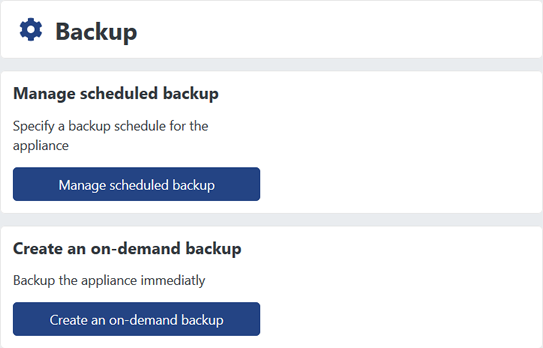
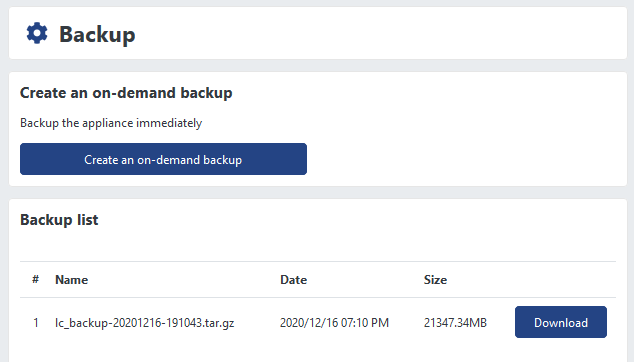
Update docs 23 Dec

diff --git a/pages/help/manage-ledger.md b/pages/help/manage-ledger.md
@@ -50,17 +50,17 @@ Ledger management functions are accessed from the tabs along the top of the page
 
 After a ledger is created, you can change its name, enable/disable it, generate new API keys or delete keys no longer in use. To access management tools, select the appropriate tab at the top of the page.
 
-| Function                                                    | Tab               |                                                          |
-| ----------------------------------------------------------- | ----------------- | -------------------------------------------------------- |
-| [Managing API keys](help/manage-ledger#managing-API-keys)   | *API Keys*        | View existing API keys for the selected ledger.          |
-| [Querying a ledger](help/manage-ledger#querying-a-ledger)   | *Query Ledger*    | Query and transactions in the selected ledger.           |
-| [Audit report](help/manage-ledger#audit-report)             | *Audit Report*    | Create an audit report of events for the current ledger. |
-| [Renaming a ledger](help/manage-ledger#renaming-a-ledger)   | *Ledger Settings* | Change the ledger name as it appears in the UI.          |
-| [Exporting a ledger](help/manage-ledger#exporting-a-ledger) | *Export*          | Export ledger data to a JSON file.                       |
+| Function                                                  | Tab               |                                                          |
+| --------------------------------------------------------- | ----------------- | -------------------------------------------------------- |
+| [Managing API keys](help/manage-ledger#managing-API-keys) | *API Keys*        | View existing API keys for the selected ledger.          |
+| [Querying a ledger](help/manage-ledger#querying-a-ledger) | *Query Ledger*    | Query and transactions in the selected ledger.           |
+| [Audit report](help/manage-ledger#audit-report)           | *Audit Report*    | Create an audit report of events for the current ledger. |
+| [Renaming a ledger](help/manage-ledger#renaming-a-ledger) | *Ledger Settings* | Change the ledger name as it appears in the UI.          |
+| [Exporting a ledger](help/manage-ledger#export-ledger)    | *Export*          | Export ledger data to a JSON file.                       |
 
 #### Managing API keys
 
-The *API Keys* tab list every API configured for the selected ledger --  its name, type (SDK, CI/CD, Postgres), and most recent usage date. You can have multiple API keys for the same ledger. That way you can assign a unique key to each application when you have more than one accessing the same ledger. 
+The *API Keys* tab lists every API configured for the selected ledger --  its name, type (SDK, CI/CD, Postgres), and most recent usage date. You can have multiple API keys for the same ledger. That way you can assign a unique key to each application when you have more than one accessing the same ledger. 
 
 By clicking the **Actions** icon you can add new keys, get the value for existing keys, delete a key or show the Signer ID (for CI/CD keys).
 

diff --git a/pages/help/introduction.md b/pages/help/introduction.md
@@ -3,15 +3,15 @@ title: Understanding the System
 ---
 
 -------
-If you're new to the CodeNotary Ledger Compliance platform, taking a moment to review the topics on this page will make it easier to understand other help content.  align="left"
+If you're new to the CodeNotary Ledger Compliance platform, taking a moment to review the topics on this page will make it easier to understand other help content.  
 
 ###### _Topics on this page..._
 
-- [What is CodeNotary Ledger Compliance?](help/introducton#what-is-codenotary-ledger-compliance?)
+- [What is CodeNotary Ledger Compliance?](help/introduction#what-is-codenotary-ledger-compliance?)
 
-- [What are some typical use cases?](help/introducton#what-are-some-typical-use-cases?)
+- [What are some typical use cases?](help/introduction#what-are-some-typical-use-cases?)
 
-- [Major components](help/introducton#major-components)
+- [Major components](help/introduction#major-components)
 
 ## What is CodeNotary Ledger Compliance? 
 
@@ -38,9 +38,9 @@ The CNLC platform provides additional security for key transactions in any busin
 
 Whether deployed on-premises or in the cloud, CodeNotary Ledger Compliance provides you a browser-based dashboard that can be used to manage the software:
 
-* [Core platform](help/introducton#core-platform)
-* [User Interface](help/introducton#user-interface)
-* [SDK](help/introducton#sdk)
+* [Core platform](help/introduction#core-platform)
+* [User Interface](help/introduction#user-interface)
+* [SDK](help/introduction#sdk)
 
 ### Core platform
 
@@ -56,7 +56,7 @@ Ledger Compliance uses an append-only data structure to store inserts and update
 
 ### User Interface
 
-The user interface is a browser-base GUI. It's where you create and manage ledgers, create API keys, view statistics, run audit reports, and access various administrative functions.
+The user interface is a browser-based GUI. It's where you create and manage ledgers, create API keys, view statistics, run audit reports, and access various administrative functions.
 <v-img src="/alt_ledger_plain.png" alt="" align="left"> </v-img>
 
 ![](assets\images\alt_ledger_plain.png)

diff --git a/pages/help/manage.md b/pages/help/manage.md
@@ -60,9 +60,9 @@ Click the **Update license** button when you're done.
 
 #### Backup
 
-To set automatic ledger backups at a specified interval, click the **Manage scheduled backup** button.
+The Backup tab lists all previous backups, lets you download them, or create a new backup. 
 
-To create a backup now, click the **Create an on-demand backup** button.
+To create a backup now, click the **Create an on-demand backup** button. Click Download next to any
 
 <v-img src="/alt_bakup_dlog.png" alt="" align="left"></v-img>
 
@@ -70,13 +70,6 @@ To create a backup now, click the **Create an on-demand backup** button.
 ![](assets\images\alt_bakup_dlog.png)
 
 
-
-After clicking Manage scheduled backup, the form below opens:
-
-Set the backup interval, and enter your password to validate the change, then click the **Apply backup policy** button.
-
-<v-img src="/alt_bakupsched_dlog.png" alt="" align="left"></v-img>
-![](assets\images\alt_bakupsched_dlog.png)
 
 #### Maintenance
 
@@ -89,7 +82,7 @@ If maintenance mode is currently off, the only other option is to turn it on (in
 <v-img src="/alt_maint_dlog.png" alt="" align="left"></v-img>
 ![](assets\images\alt_maint_dlog.png)
 
-#### Appliance  Information
+#### Appliance Information
 
 This tab displays current system status. 
 

diff --git a/pages/help/overall-status.md b/pages/help/overall-status.md
@@ -15,7 +15,11 @@ _Topics on this page..._
 
 ## Home page indicators
 
+![](assets\images\alt_hp_full_dash.png)
+
 <v-img src="/alt_hp_full_dash.png" alt="dashboard" align="right"></v-img>
+
+
 
 1. **Tampering Check**  
 
@@ -51,6 +55,7 @@ _Topics on this page..._
 4. **+ Add ledger**  Quick link to create a new Ledger.
    
    <v-img src="/alt_Add_ledger_btn_sm.png" alt="" align="left"> </v-img>
+   
 
 
 5. **Writes over time**  Indicates the total number of entries written to any ledger in the last 6 hours.
@@ -58,6 +63,8 @@ _Topics on this page..._
    <v-img src="/alt_wotb.png" alt="" align="left"> </v-img>
 
    ![](assets\images\alt_wotb.png)
+
+   
 
 6. **Disk usage**  Displays a bar graph of the free and used storage space for both system and ledger data. You can mouse-over the graphic for details.
 

diff --git a/pages/help/index.md b/pages/help/index.md
@@ -38,9 +38,8 @@ The procedures for both configuration and use (through the SDK) are identical wh
 
 #### Ledger Transactions
 
-- [Using the SDK](/help/use-ledger)
-_Writing ledger entries, querying a ledger from your applications._
-  
+- [Using the SDK](/help/use-ledger)  _Writing ledger entries, querying a ledger from your applications._
+
 - [Query Ledger data](/help/query-ledger)
   _Accessing existing ledger entries._
 
@@ -64,5 +63,7 @@ For additional assistance with any topic, please don't hesitate to contact us by
 Copyright © 2020 CodeNotary, Inc. All rights reserved. 
 
 <v-img src="/alt_logo.png" alt="" align="left"> </v-img>
+
+![](C:\Users\David\Downloads\Metatrope\clients\ntry\assets\images\alt_logo.png)
 
 

diff --git a/pages/help/user-management.md b/pages/help/user-management.md
@@ -23,11 +23,9 @@ To add a user to the system, you'll need their email address, desired user name,
 
 Note that some limitations to user administration are imposed by your assign role.
 
-System Admin - Full read-write access to all functions in the UI.
-
-Admin  - Limited read-write access to all functions in the UI.
-
-Ledger manager  - Read-write access to user functions in the UI, but no access to admin functions.
+- System admin - Full read-write access to all functions in the UI.
+- Ledger administrator - Read-write access to user functions in the UI, but no access to admin functions.
+- Auditor - Read-only permissions on ledgers and their contents
 
 ### To create a new user  
 

diff --git a/pages/help/use-ledger.md b/pages/help/use-ledger.md
@@ -48,7 +48,7 @@ The first step is to instantiate a LC client. You only need one
 
 - Server IP address 
 
-- port number (typically 3324 but check your implementation)
+- port number (typically the same port on which the web UI is exposed)
 
 ## Getting started 
 
